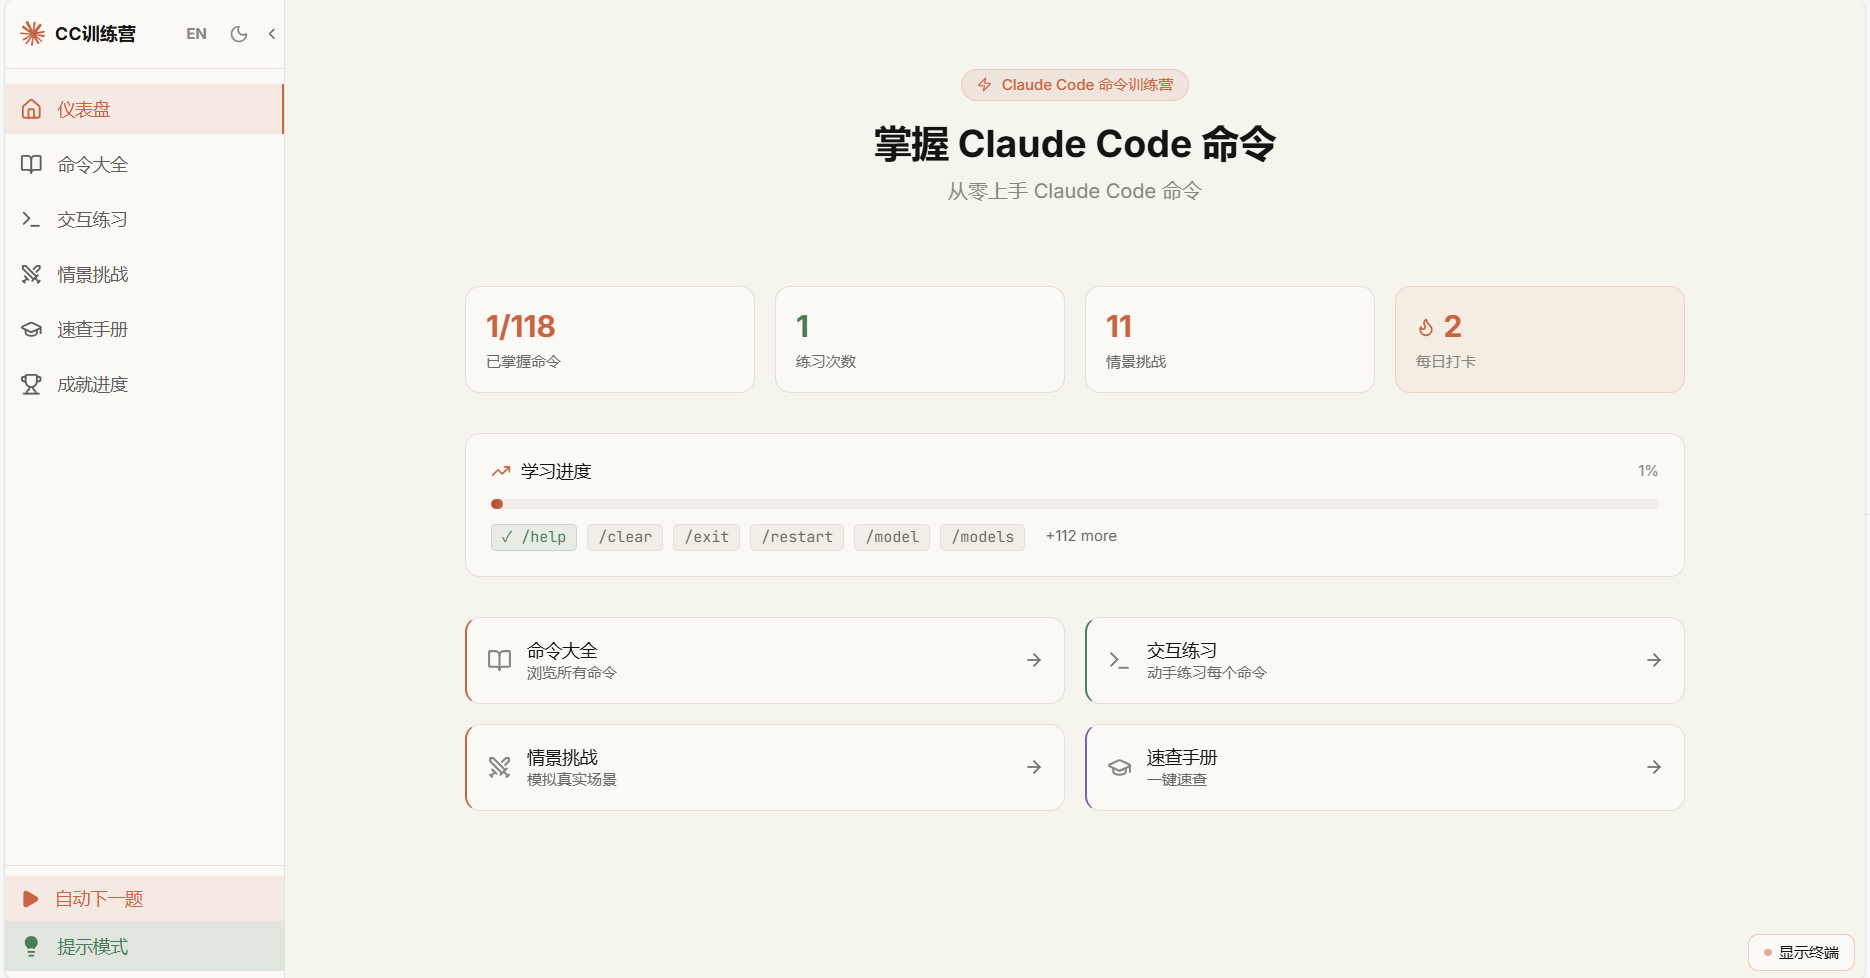
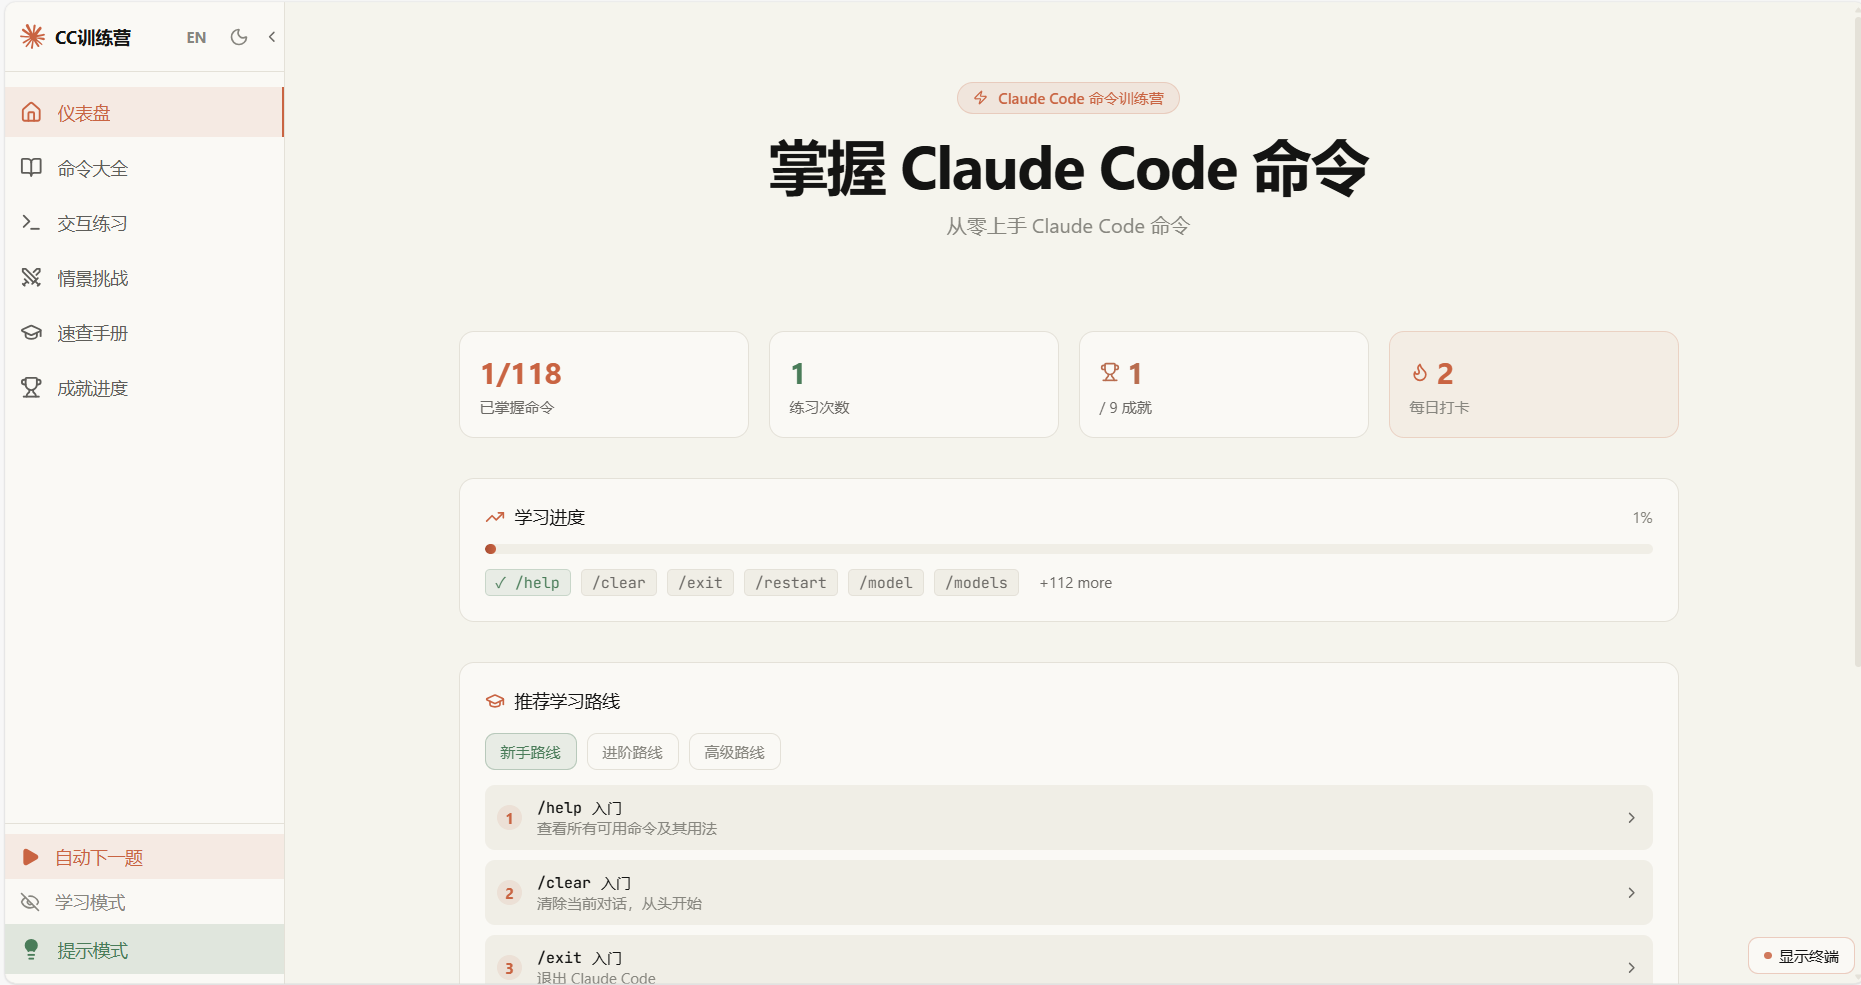
update README with new screenshots (7 pages)

diff --git a/index.html b/index.html
@@ -2,8 +2,9 @@
 <html lang="zh-CN">
   <head>
     <meta charset="UTF-8" />
-    <link rel="icon" type="image/svg+xml" href="/favicon.svg" />
-    <link rel="apple-touch-icon" href="/favicon.svg" />
+    <link rel="icon" type="image/svg+xml" href="/favicon.svg?v=2" />
+    <link rel="apple-touch-icon" href="/favicon.svg?v=2" />
+    <link rel="shortcut icon" href="/favicon.svg?v=2" />
     <meta name="theme-color" content="#7c3aed" media="(prefers-color-scheme: light)" />
     <meta name="theme-color" content="#a855f7" media="(prefers-color-scheme: dark)" />
     <meta name="viewport" content="width=device-width, initial-scale=1.0" />

diff --git a/README.md b/README.md
@@ -31,27 +31,55 @@
 
 | 功能 | 说明 |
 |------|------|
-| 📚 **命令大全** | 118 个命令按 6 大分类，支持搜索、难度标记、进度追踪 |
-| ⌨ **交互练习** | 内置模拟终端，选择命令→输入验证→即时反馈循环 |
+| 📚 **命令大全** | 118 个命令按 6 大分类，搜索、难度标记、进度追踪 |
+| ⌨ **交互练习** | 内置模拟终端，选择→输入→验证，即时反馈 |
 | ⚔ **情景挑战** | 11 个真实开发场景，36 个任务步骤 |
-| 📋 **速查手册** | 全量表格速览，适合回顾和快速定位 |
-| 🏅 **成就进度** | 9 个徽章成就 + 学习统计 + 连续打卡追踪（3天/7天） |
-| 🔄 **自动下一题** | 答对后自动跳转下一命令，无缝练习 |
-| 🧠 **回忆模式** | 隐藏命令名，根据描述回忆——强化记忆 |
-| 💡 **命令提示** | 输入时自动补全建议，降低入门门槛 |
-| 🌐 **中英双语** | 一键切换，界面+全部数据（命令/场景/成就）完整翻译 |
+| 📋 **速查手册** | 全量表格+悬停提示，快速定位命令 |
+| 🏅 **成就进度** | 9 个徽章 + 学习统计 + 连续打卡（3天/7天） |
+| 🔄 **自动下一题** | 答对后自动跳转，无缝练习 |
+| 🧠 **回忆模式** | 隐藏命令名，根据描述回忆，强化记忆 |
+| 💡 **命令提示** | 输入时自动补全，降低入门门槛 |
+| 🌐 **中英双语** | 一键切换，界面+全部数据完整翻译 |
 | 🌙 **暗色模式** | 亮/暗双主题自适应 |
 
+---
+
+## 📸 界面预览
+
 <p align="center">
-  <img src="screenshots/commands-en.png" alt="命令大全英文界面" width="700">
+  <img src="screenshots/commands-zh.png" alt="命令界面" width="700">
   <br>
   <em>命令大全 — 按分类浏览、搜索、追踪进度</em>
 </p>
 
 <p align="center">
-  <img src="screenshots/practice.png" alt="交互练习终端" width="700">
+  <img src="screenshots/learning.png" alt="学习模式" width="700">
   <br>
-  <em>练习模式 — 在终端中输入命令验证</em>
+  <em>学习模式 — 查看命令详情、语法和示例</em>
+</p>
+
+<p align="center">
+  <img src="screenshots/practice.png" alt="练习模式" width="700">
+  <br>
+  <em>练习模式 — 隐藏命令名，在终端中输入验证</em>
+</p>
+
+<p align="center">
+  <img src="screenshots/scenarios.png" alt="情景挑战" width="700">
+  <br>
+  <em>情景挑战 — 模拟真实问题场景，逐步解决</em>
+</p>
+
+<p align="center">
+  <img src="screenshots/progress.png" alt="成就进度" width="700">
+  <br>
+  <em>成就进度 — 追踪学习成果和连续打卡</em>
+</p>
+
+<p align="center">
+  <img src="screenshots/reference.png" alt="速查手册" width="700">
+  <br>
+  <em>速查手册 — 关联命令分组，悬停查看提示</em>
 </p>
 
 ---
@@ -97,10 +125,10 @@ src/
 
 ---
 
-<p align="center">
-  <a href="README.en.md"><b>🇬🇧 View in English</b></a>
-</p>
-
 ## 开源协议
 
 MIT
+
+<p align="center">
+  <a href="README.en.md"><b>🇬🇧 View in English</b></a>
+</p>

diff --git a/README.en.md b/README.en.md
@@ -31,27 +31,55 @@
 
 | Feature | Description |
 |---------|-------------|
-| 📚 **Commands** | 118 commands in 6 categories with search, difficulty tags & progress |
-| ⌨ **Practice** | Built-in terminal emulator with instant feedback loop |
+| 📚 **Commands** | 118 commands in 6 categories, search, difficulty tags, progress |
+| ⌨ **Practice** | Built-in terminal emulator: select → type → verify |
 | ⚔ **Scenarios** | 11 real-world challenges, 36 task steps |
-| 📋 **Reference** | Full table for quick command lookup |
-| 🏅 **Achievements** | 9 badges + streak tracking (3/7 day streaks) |
-| 🔄 **Auto Next** | Auto-advance to next command on correct answer |
-| 🧠 **Recall Mode** | Hide command name, recall from description — strengthen memory |
-| 💡 **Hints** | Inline autocomplete suggestions lower the entry barrier |
-| 🌐 **i18n** | One-click Chinese/English switch, all data fully translated |
-| 🌙 **Dark Mode** | Light/dark theme with system preference detection |
+| 📋 **Reference** | Full table with hover tooltips for quick lookup |
+| 🏅 **Achievements** | 9 badges + stats + streak tracking (3/7 days) |
+| 🔄 **Auto Next** | Auto-advance on correct answer |
+| 🧠 **Recall Mode** | Hide command name, recall from description |
+| 💡 **Hints** | Inline autocomplete suggestions |
+| 🌐 **i18n** | One-click Chinese/English switch, all data translated |
+| 🌙 **Dark Mode** | Light/dark theme with system preference |
+
+---
+
+## 📸 Screenshots
 
 <p align="center">
-  <img src="screenshots/commands-en.png" alt="Browse all commands in English" width="700">
+  <img src="screenshots/commands-zh.png" alt="Commands page" width="700">
   <br>
   <em>Command encyclopedia — browse, search, and track progress</em>
 </p>
 
 <p align="center">
-  <img src="screenshots/practice.png" alt="Interactive practice with terminal" width="700">
+  <img src="screenshots/learning.png" alt="Learning mode" width="700">
   <br>
-  <em>Practice mode — type commands in the built-in terminal</em>
+  <em>Learning mode — view command details, syntax, and examples</em>
+</p>
+
+<p align="center">
+  <img src="screenshots/practice.png" alt="Practice mode" width="700">
+  <br>
+  <em>Practice mode — recall commands by description, type to verify</em>
+</p>
+
+<p align="center">
+  <img src="screenshots/scenarios.png" alt="Scenarios" width="700">
+  <br>
+  <em>Scenarios — solve real-world problems step by step</em>
+</p>
+
+<p align="center">
+  <img src="screenshots/progress.png" alt="Progress and achievements" width="700">
+  <br>
+  <em>Achievements — track learning progress and daily streaks</em>
+</p>
+
+<p align="center">
+  <img src="screenshots/reference.png" alt="Reference guide" width="700">
+  <br>
+  <em>Reference — command relations with hover tooltips</em>
 </p>
 
 ---
@@ -97,10 +125,10 @@ src/
 
 ---
 
-<p align="center">
-  <a href="README.md"><b>🇨🇳 查看中文版本</b></a>
-</p>
-
 ## License
 
 MIT
+
+<p align="center">
+  <a href="README.md"><b>🇨🇳 查看中文版本</b></a>
+</p>
